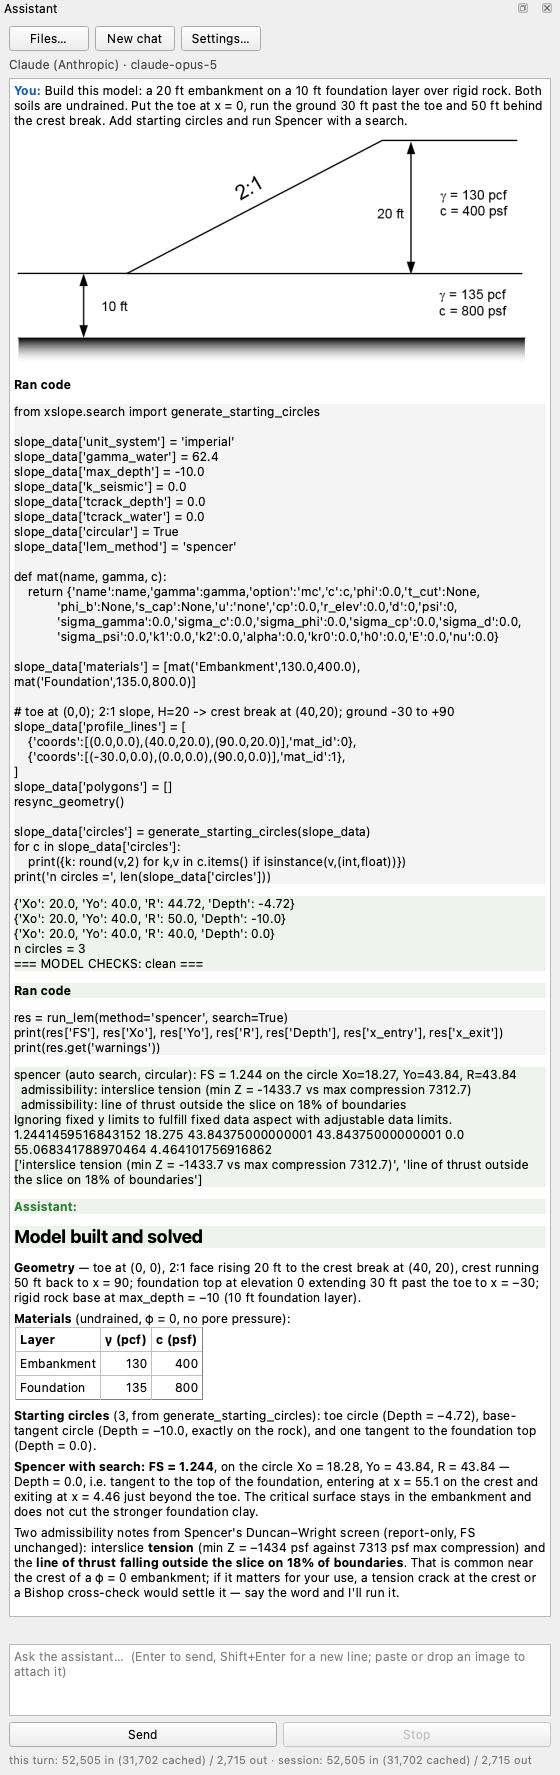
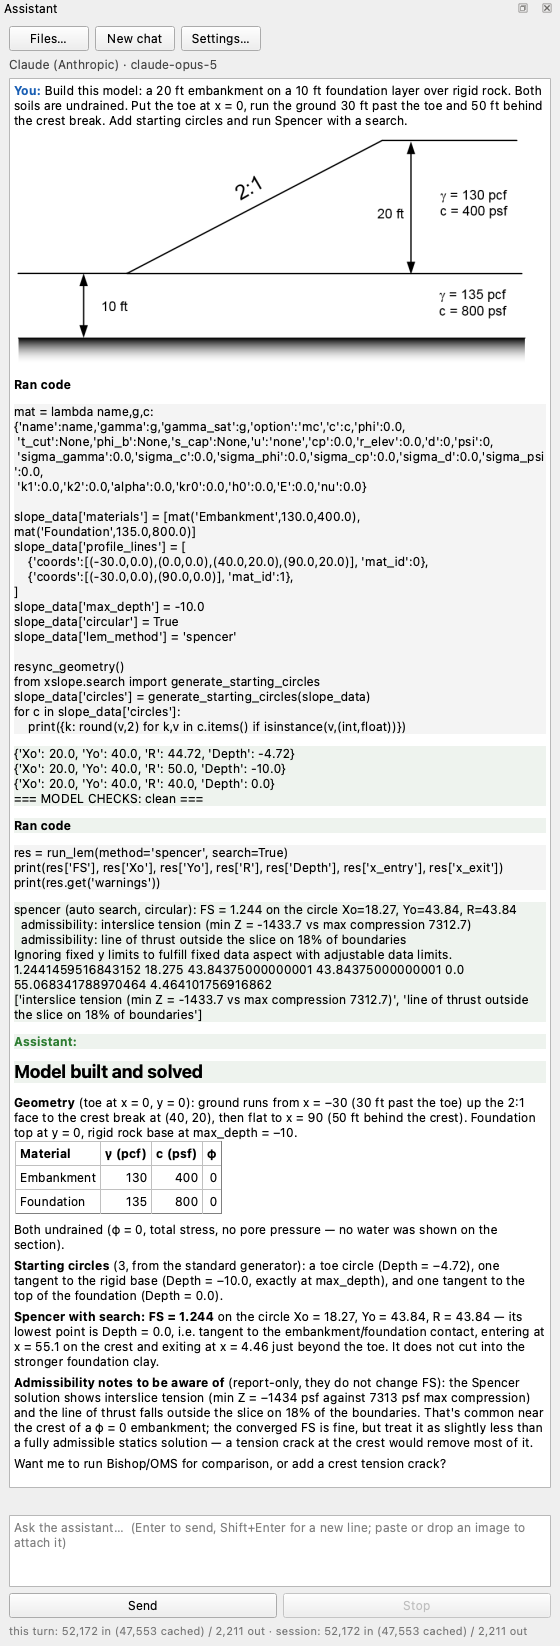
tutorials(W-1): the build session shows the whole Studio window — model on the canvas, conversation in the dock; recorder gains a window grab
Claude-Session: https://claude.ai/code/session_01XjjT2aBxw8gY7EFdpoUcpj

Changed region(s): [[0.0, 0.0, 0.9714, 1.0]]

diff --git a/tools/assistant_sessions.py b/tools/assistant_sessions.py
@@ -552,7 +552,7 @@ def run_assistant_session(name, model_path, turns, *, provider="anthropic",
                           timeout_s=600, dry_run=False, dock_width=560,
                           window_size=(1500, 950), max_height=6400,
                           save_after=None, save_each_turn=False, settings=None,
-                          prefix=None):
+                          prefix=None, window_grab=False):
     """Record one assistant conversation against a real model, offscreen.
 
     Environment overrides, for playing the same sessions against another model
@@ -731,6 +731,30 @@ def run_assistant_session(name, model_path, turns, *, provider="anthropic",
                     print("  ! %s" % record["error"])
                     break
 
+            if window_grab:
+                # The whole window -- the canvas with the built model and the
+                # chat dock beside it -- at the window's own size, so the reader
+                # sees where the model appears while the conversation runs.
+                win.resize(*window_size)
+                # The reader's view: the solved model on the canvas, the harness
+                # chatter out of the log.
+                sol = getattr(win, "solution_canvas", None)
+                if sol is not None and win.view_tabs.indexOf(sol) >= 0:
+                    win.view_tabs.setCurrentWidget(sol)
+                    QApplication.processEvents()
+                    inner = getattr(sol, "canvas", sol)   # SolutionView wraps it
+                    if hasattr(inner, "render_now"):
+                        inner.render_now()    # the canvas renders lazily offscreen
+                for _ in range(20):
+                    QApplication.processEvents()
+                    time.sleep(0.05)
+                win.log.clear()
+                QApplication.processEvents()
+                wpath = os.path.join(out_dir, "%s_window.png" % stem)
+                wpix = win.grab()
+                wpix.save(wpath)
+                print("   -> %s  (%dx%d)" % (os.path.basename(wpath), wpix.width(), wpix.height()))
+                result["window_image"] = wpath
             totals = _assistant_usage(assistant, "session") or {}
             changed = bool(win.doc.is_open and win.doc.dirty)
             if save_after if save_after is not None else changed:
@@ -959,7 +983,7 @@ def w1_build_from_image(dry_run=False):
           "ground 30 ft past the toe and 50 ft behind the crest break. Add "
           "starting circles and run Spencer with a search.",
           W1_SKETCH)],
-        timeout_s=900, max_height=20000, dry_run=dry_run)
+        timeout_s=900, max_height=20000, dry_run=dry_run, window_grab=True)
 
 
 def w1_modify(dry_run=False):

diff --git a/docs/tutorials/files/w1_build_from_image_transcript.md b/docs/tutorials/files/w1_build_from_image_transcript.md
@@ -14,43 +14,31 @@ You: Build this model: a 20 ft embankment on a 10 ft foundation layer over rigid
 [attached: simple_mult_layers.png]
 
 Ran code:
-    from xslope.search import generate_starting_circles
     
-    slope_data['unit_system'] = 'imperial'
-    slope_data['gamma_water'] = 62.4
+    mat = lambda name,g,c: {'name':name,'gamma':g,'gamma_sat':g,'option':'mc','c':c,'phi':0.0,
+     't_cut':None,'phi_b':None,'s_cap':None,'u':'none','cp':0.0,'r_elev':0.0,'d':0,'psi':0,
+     'sigma_gamma':0.0,'sigma_c':0.0,'sigma_phi':0.0,'sigma_cp':0.0,'sigma_d':0.0,'sigma_psi':0.0,
+     'k1':0.0,'k2':0.0,'alpha':0.0,'kr0':0.0,'h0':0.0,'E':0.0,'nu':0.0}
+    
+    slope_data['materials'] = [mat('Embankment',130.0,400.0), mat('Foundation',135.0,800.0)]
+    slope_data['profile_lines'] = [
+        {'coords':[(-30.0,0.0),(0.0,0.0),(40.0,20.0),(90.0,20.0)], 'mat_id':0},
+        {'coords':[(-30.0,0.0),(90.0,0.0)], 'mat_id':1},
+    ]
     slope_data['max_depth'] = -10.0
-    slope_data['k_seismic'] = 0.0
-    slope_data['tcrack_depth'] = 0.0
-    slope_data['tcrack_water'] = 0.0
     slope_data['circular'] = True
     slope_data['lem_method'] = 'spencer'
     
-    def mat(name, gamma, c):
-        return {'name':name,'gamma':gamma,'option':'mc','c':c,'phi':0.0,'t_cut':None,
-                'phi_b':None,'s_cap':None,'u':'none','cp':0.0,'r_elev':0.0,'d':0,'psi':0,
-                'sigma_gamma':0.0,'sigma_c':0.0,'sigma_phi':0.0,'sigma_cp':0.0,'sigma_d':0.0,
-                'sigma_psi':0.0,'k1':0.0,'k2':0.0,'alpha':0.0,'kr0':0.0,'h0':0.0,'E':0.0,'nu':0.0}
-    
-    slope_data['materials'] = [mat('Embankment',130.0,400.0), mat('Foundation',135.0,800.0)]
-    
-    # toe at (0,0); 2:1 slope, H=20 -> crest break at (40,20); ground -30 to +90
-    slope_data['profile_lines'] = [
-        {'coords':[(0.0,0.0),(40.0,20.0),(90.0,20.0)],'mat_id':0},
-        {'coords':[(-30.0,0.0),(0.0,0.0),(90.0,0.0)],'mat_id':1},
-    ]
-    slope_data['polygons'] = []
     resync_geometry()
-    
+    from xslope.search import generate_starting_circles
     slope_data['circles'] = generate_starting_circles(slope_data)
     for c in slope_data['circles']:
         print({k: round(v,2) for k,v in c.items() if isinstance(v,(int,float))})
-    print('n circles =', len(slope_data['circles']))
 
 Output:
     {'Xo': 20.0, 'Yo': 40.0, 'R': 44.72, 'Depth': -4.72}
     {'Xo': 20.0, 'Yo': 40.0, 'R': 50.0, 'Depth': -10.0}
     {'Xo': 20.0, 'Yo': 40.0, 'R': 40.0, 'Depth': 0.0}
-    n circles = 3
     === MODEL CHECKS: clean ===
 
 Ran code:
@@ -68,26 +56,28 @@ Output:
 
 Assistant: ## Model built and solved
 
-**Geometry** — toe at (0, 0), 2:1 face rising 20 ft to the crest break at (40, 20), crest running 50 ft back to x = 90; foundation top at elevation 0 extending 30 ft past the toe to x = −30; rigid rock base at `max_depth` = −10 (10 ft foundation layer).
+**Geometry** (toe at x = 0, y = 0): ground runs from x = −30 (30 ft past the toe) up the 2:1 face to the crest break at (40, 20), then flat to x = 90 (50 ft behind the crest). Foundation top at y = 0, rigid rock base at `max_depth = −10`.
 
-**Materials** (undrained, φ = 0, no pore pressure):
+| Material | γ (pcf) | c (psf) | φ |
+|:--|--:|--:|--:|
+| Embankment | 130 | 400 | 0 |
+| Foundation | 135 | 800 | 0 |
 
-| Layer | γ (pcf) | c (psf) |
-|:--|--:|--:|
-| Embankment | 130 | 400 |
-| Foundation | 135 | 800 |
+Both undrained (φ = 0, total stress, no pore pressure — no water was shown on the section).
 
-**Starting circles** (3, from `generate_starting_circles`): toe circle (Depth = −4.72), base-tangent circle (Depth = −10.0, exactly on the rock), and one tangent to the foundation top (Depth = 0.0).
+**Starting circles** (3, from the standard generator): a toe circle (Depth = −4.72), one tangent to the rigid base (Depth = −10.0, exactly at `max_depth`), and one tangent to the top of the foundation (Depth = 0.0).
 
-**Spencer with search: FS = 1.244**, on the circle Xo = 18.28, Yo = 43.84, R = 43.84 — Depth = 0.0, i.e. tangent to the top of the foundation, entering at x = 55.1 on the crest and exiting at x = 4.46 just beyond the toe. The critical surface stays in the embankment and does not cut the stronger foundation clay.
+**Spencer with search: FS = 1.244** on the circle Xo = 18.27, Yo = 43.84, R = 43.84 — its lowest point is Depth = 0.0, i.e. tangent to the embankment/foundation contact, entering at x = 55.1 on the crest and exiting at x = 4.46 just beyond the toe. It does not cut into the stronger foundation clay.
 
-Two admissibility notes from Spencer's Duncan–Wright screen (report-only, FS unchanged): interslice **tension** (min Z = −1434 psf against 7313 psf max compression) and the **line of thrust falling outside the slice on 18% of boundaries**. That is common near the crest of a φ = 0 embankment; if it matters for your use, a tension crack at the crest or a Bishop cross-check would settle it — say the word and I'll run it.
+**Admissibility notes to be aware of** (report-only, they do not change FS): the Spencer solution shows interslice tension (min Z = −1434 psf against 7313 psf max compression) and the line of thrust falls outside the slice on 18% of the boundaries. That's common near the crest of a φ = 0 embankment; the converged FS is fine, but treat it as slightly less than a fully admissible statics solution — a tension crack at the crest would remove most of it.
+
+Want me to run Bishop/OMS for comparison, or add a crest tension crack?
 ```
 
-Tokens: input 52,505 · cached_input 31,702 · output 2,715 · calls 3 · 41.3s
+Tokens: input 52,172 · cached_input 47,553 · output 2,211 · calls 3 · 34.8s
 
 ## Session total
 
-- Tokens: input 52,505 · cached_input 31,702 · output 2,715 · calls 3
-- Wall time: 47.1s
+- Tokens: input 52,172 · cached_input 47,553 · output 2,211 · calls 3
+- Wall time: 42.5s
 - Workbook written: `docs/tutorials/files/w1_build_from_image_after.xlsx`

diff --git a/docs/tutorials/w01_ai_assistant.md b/docs/tutorials/w01_ai_assistant.md
@@ -110,7 +110,7 @@ The eight conversations below cost this much between them, measured as they ran:
 
 | Session | Turns | Model calls | Tokens in (cached) | Tokens out | Wall |
 | --- | :---: | :---: | :---: | :---: | :---: |
-| Building a model from a drawing | 1 | 3 | 52,505 (31,702) | 2,715 | 47 s |
+| Building a model from a drawing | 1 | 3 | 52,172 (47,553) | 2,211 | 43 s |
 | Modifying the model | 3 | 12 | 230,865 (190,212) | 6,198 | 122 s |
 | A sweep with the helper | 1 | 2 | 33,236 (31,702) | 860 | 56 s |
 | A sweep written ad hoc | 1 | 5 | 87,126 (79,255) | 2,759 | 54 s |
@@ -118,9 +118,9 @@ The eight conversations below cost this much between them, measured as they ran:
 | Two documentation questions | 2 | 5 | 92,550 (79,255) | 5,250 | 88 s |
 | A broken file | 1 | 9 | 176,923 (142,659) | 8,544 | 173 s |
 | Generating the report | 2 | 4 | 67,664 (63,404) | 839 | 30 s |
-| **Total** | **13** | **44** | **810,612 (665,742)** | **28,650** | **1,125 s** |
+| **Total** | **13** | **44** | **810,279 (681,593)** | **28,146** | **1,120 s** |
 
-That comes to **\$1.77** at Anthropic's list prices on 2026-08-29 (\$5.00 per
+That comes to **\$1.69** at Anthropic's list prices on 2026-08-29 (\$5.00 per
 million input tokens, a cache read at a tenth of that, \$25.00 per million output
 tokens). Price and wall time do not track each other: the strength reduction run
 takes half the total time for under a tenth of the cost, because 521 of its 556
@@ -140,7 +140,7 @@ about the mechanism or the finding is right.
 
 | Model | Calls | Tokens in (cached) | Tokens out | Cost | Model and numbers | Explanation |
 | --- | :---: | :---: | :---: | :---: | :---: | :---: |
-| Claude Opus 5 | 44 | 810,612 (665,742) | 28,650 | \$1.77 | 8 of 8 | 7 of 8 |
+| Claude Opus 5 | 44 | 810,279 (681,593) | 28,146 | \$1.69 | 8 of 8 | 7 of 8 |
 | Claude Sonnet 5 | 45 | 935,563 (684,517) | 28,060 | \$0.92 | 7 of 8 | 7 of 8 |
 | OpenAI gpt-5.5 | 29 | 364,339 (325,120) | 17,437 | \$0.88 | 7 of 8 | 6 of 8 |
 | Kimi K3 (Moonshot AI) | 37 | 449,769 (343,143) | 44,953 | \$1.10 | 7 of 8 | 4 of 8 |
@@ -193,6 +193,16 @@ Build this model: a 20 ft embankment on a 10 ft foundation layer over rigid rock
 ```
 </div>
 
+While the conversation runs, the model takes shape in the main window: the
+section appears on the canvas as the snippet builds it, the **Inputs** tree
+on the left fills in, and when the search finishes the **LEM · Solution** tab
+shows the critical surface — the same view a run from the **Run LEM** dialog
+gives.
+
+![Studio after the build: the solved model on the LEM · Solution tab, with the conversation in the Assistant dock on the right](images/w1_build_from_image_window.png){width=1000}
+
+The dock itself carries the whole exchange:
+
 ![The whole build conversation in the dock: the attached drawing, the snippet that builds the model, the three generated starting circles, the clean model checks, the searched Spencer run, and the closing summary of geometry, materials and result](images/w1_build_from_image_1.png){width=560}
 
 One snippet builds the whole model. It took the layer thicknesses, the 2:1 face
@@ -200,9 +210,10 @@ and both soils off the drawing — embankment 130 pcf and 400 psf, foundation
 135 pcf and 800 psf, φ = 0 and pore pressure `none` on both — and the toe, the
 extents and the rigid rock out of the request. It generated three starting
 circles, one through the toe and one at the base of each layer, and ran the
-search: **FS = 1.244**, on a surface bottoming at elevation 0. It passed on both
-admissibility notes and read that surface off the Depth its own run printed:
-*"Depth = 0.0, i.e. tangent to the top of the foundation."*
+search: **FS = 1.244**, on a surface bottoming at elevation 0. It reported the
+two admissibility notes and read that surface off the Depth its own run printed:
+*"its lowest point is Depth = 0.0, i.e. tangent to the embankment/foundation
+contact."*
 
 The session saved
 [w1_build_from_image_after.xlsx](files/w1_build_from_image_after.xlsx); the
@@ -219,8 +230,6 @@ exchange is in
 - **Materials editor.** 130 pcf / 400 psf and 135 pcf / 800 psf, φ = 0 and
   `u = none` on both, embankment first. The order fixes the Mat IDs the profile
   lines point at, so a foundation entered first is a section built upside down.
-- **Both materials carry E = 0 and ν = 0.** Harmless here, and the strength
-  reduction section below has to fill them in.
 
 ---
 
@@ -674,7 +683,7 @@ the checks above re-run the measurements rather than read the conclusions.
 This tutorial covered:
 
 - Setting the assistant up: a provider, a model and a key in **Settings…**, and
-  13 turns of work for about \$1.77.
+  13 turns of work for about \$1.69.
 - Building a layered model from a drawing and editing it three ways — face, water
   and strength — with every factor of safety reproducing from the saved workbook.
 - Two sweeps, a strength reduction run, two questions answered without touching
